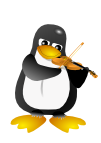
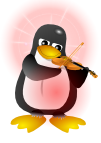
Change Tux_play with colorized version, better in against computer version. Change LRLaPause_short.ogg place, for copyright.

diff --git a/src/boards/memory.c b/src/boards/memory.c
@@ -1,6 +1,6 @@
 /* gcompris - memory.c
  *
- * Time-stamp: <2005/11/08 12:26:46 yves>
+ * Time-stamp: <2005/11/08 21:34:33 yves>
  *
  * Copyright (C) 2000 Bruno Coudoin
  * 
@@ -207,7 +207,7 @@ static gchar *soundList[] =
    "sounds/LuneRouge/usine/LRHits_01_by_Lionel_Allorge.ogg",
    "sounds/LuneRouge/usine/LRFireballs_01_by_Lionel_Allorge.ogg",
    "sounds/LuneRouge/usine/LRFactory_noise_01_by_Lionel_Allorge.ogg",
-   "sounds/memory/LRLaPause_short.ogg",
+   "sounds/LuneRouge/LRLaPause_short.ogg",
    "sounds/memory/plick.ogg",
    "sounds/memory/tick.ogg",
    "sounds/memory/tri.ogg",
